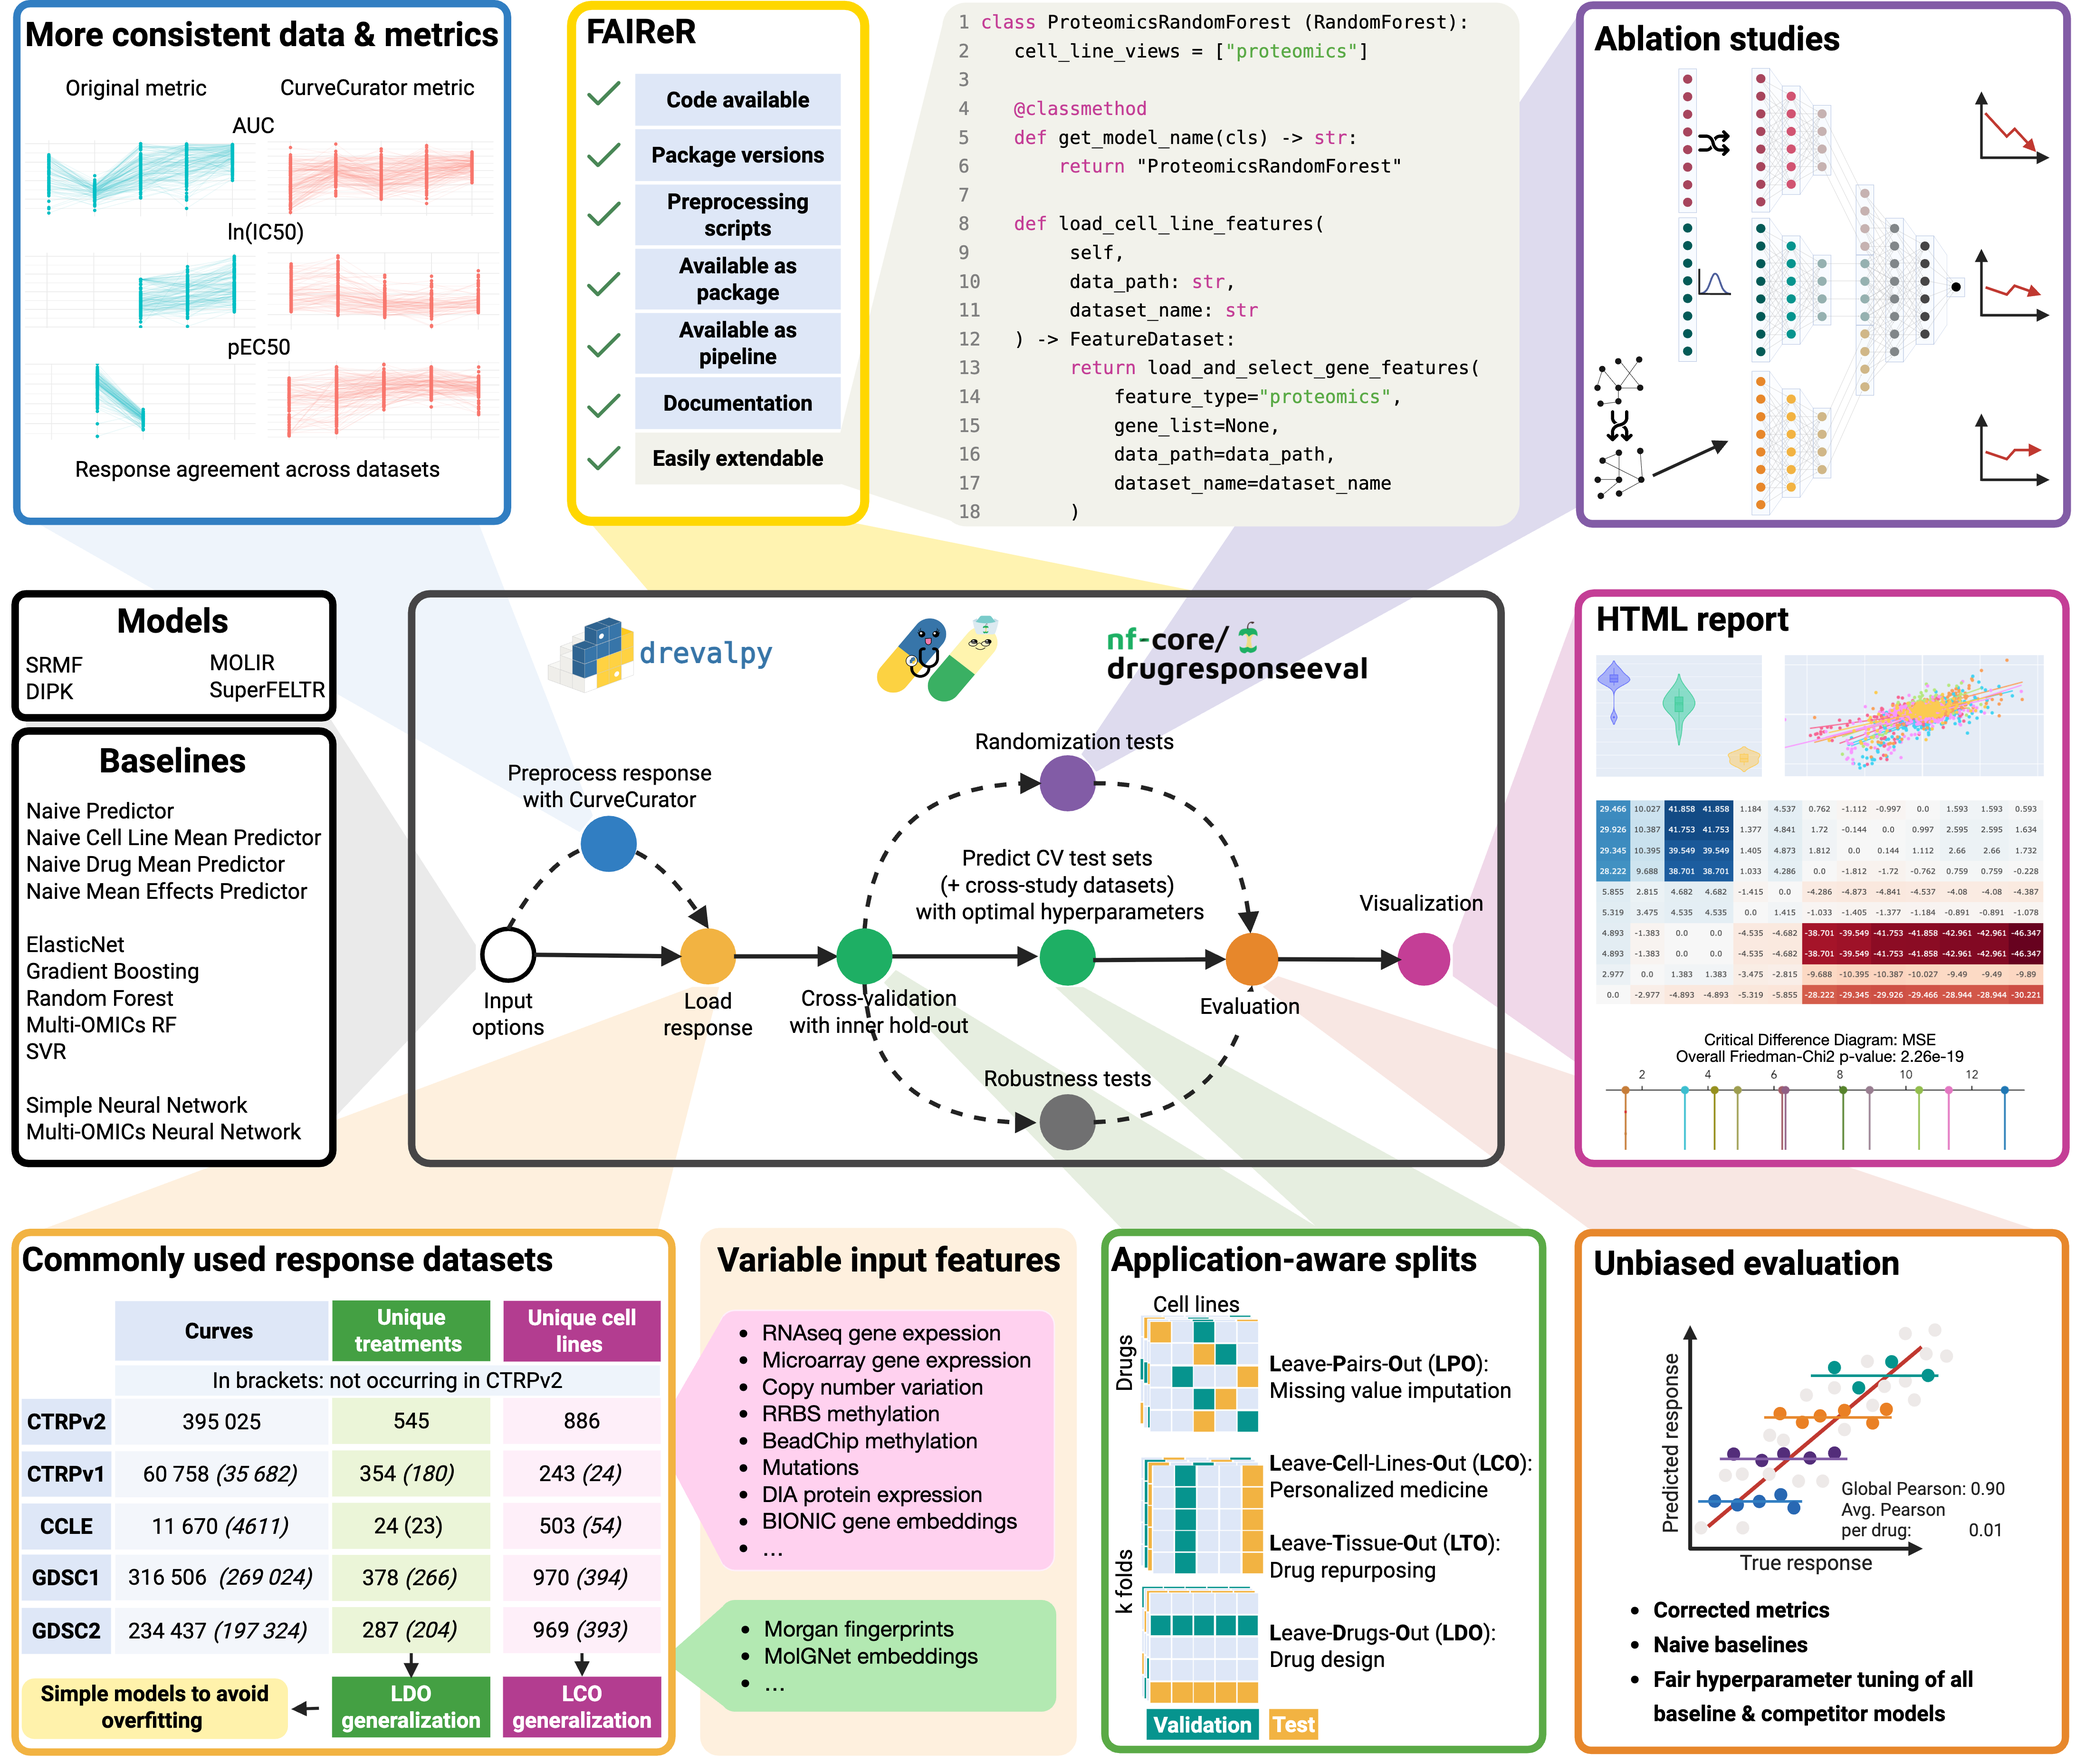
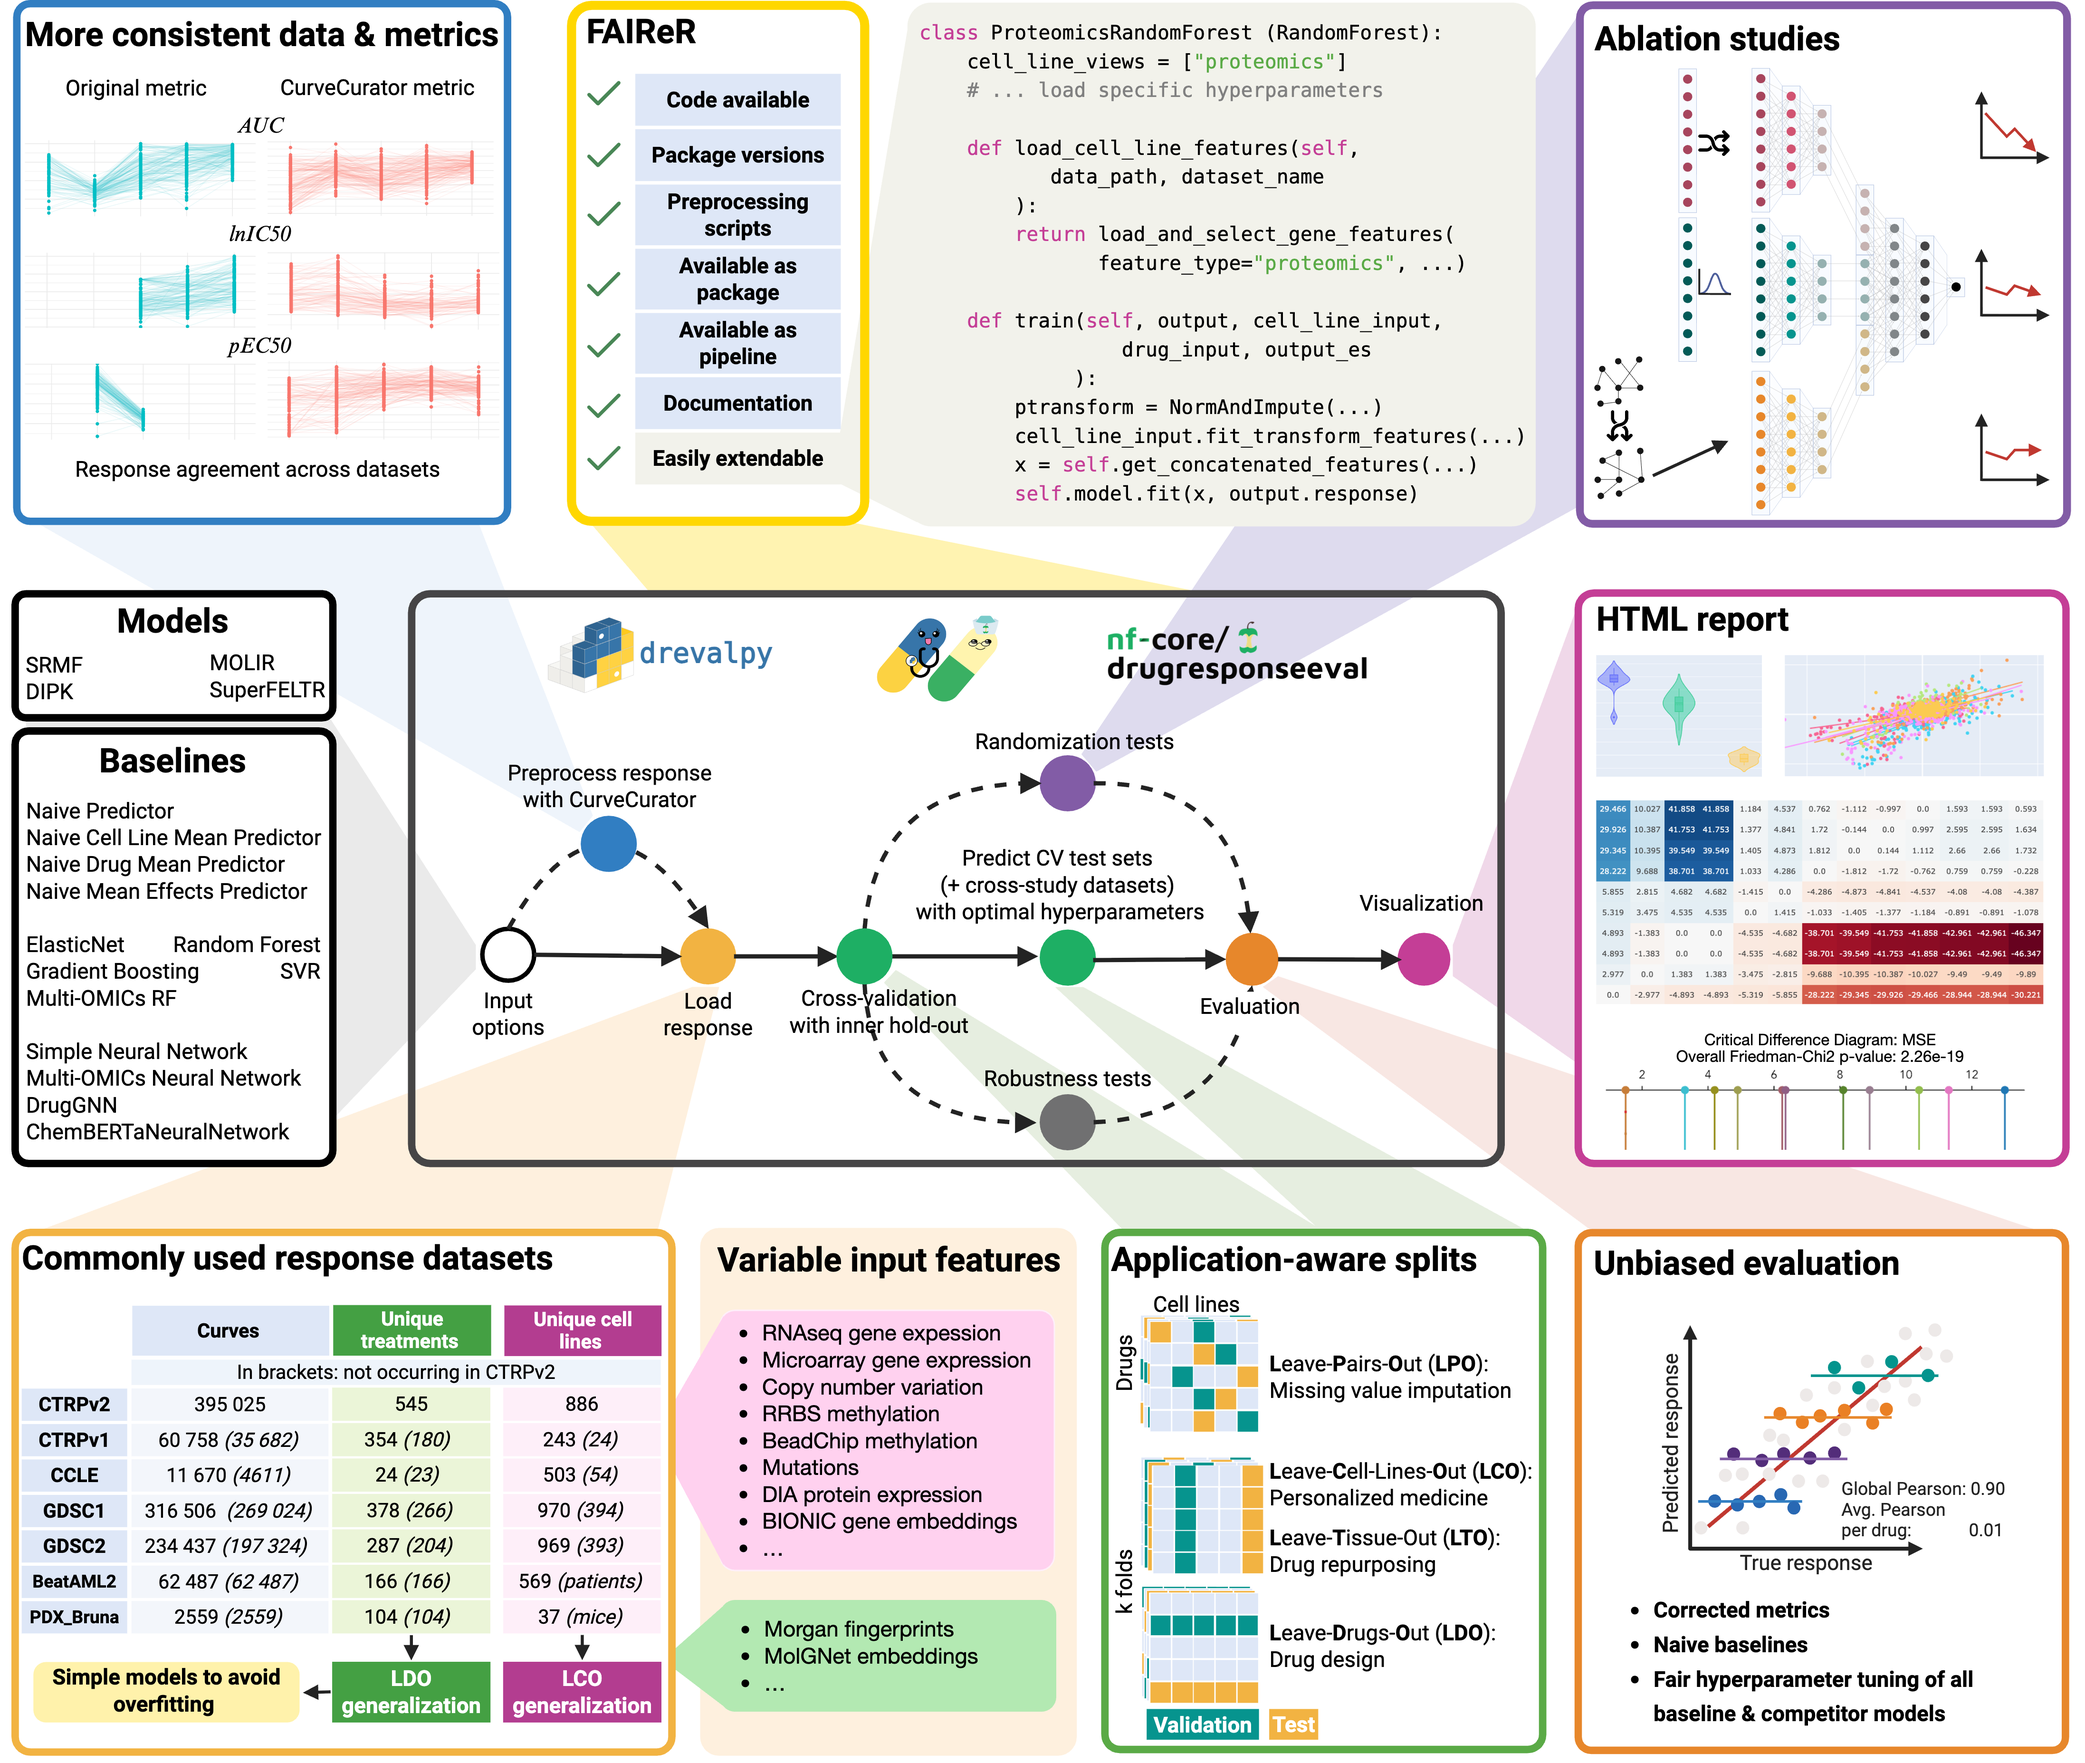
updated summary png to include ChemBERTaNeuralNetwork, DrugGNN, BeatAML2, and PDX_Bruna. Updated documentation to include DrugGNN API. Updated SimpleNeuralNetwork-related files where ChemBERTaNeuralNetwork wasn't yet mentioned. Added documentation information to usage.rst.

diff --git a/drevalpy/models/SimpleNeuralNetwork/__init__.py b/drevalpy/models/SimpleNeuralNetwork/__init__.py
@@ -1,1 +1,1 @@
-"""Module for the baseline neural network models SimpleNeuralNetwork and MultiOmicsNeuralNetwork."""
+"""Module for the baseline models SimpleNeuralNetwork, ChemBERTaNeuralNetwork and MultiOmicsNeuralNetwork."""

diff --git a/drevalpy/models/SimpleNeuralNetwork/simple_neural_network.py b/drevalpy/models/SimpleNeuralNetwork/simple_neural_network.py
@@ -1,4 +1,4 @@
-"""Contains the SimpleNeuralNetwork model."""
+"""Contains the SimpleNeuralNetwork and the ChemBERTaNeuralNetwork model."""
 
 import json
 import os

diff --git a/docs/usage.rst b/docs/usage.rst
@@ -177,6 +177,10 @@ For ``--models``, you can also perform randomization and robustness tests. The `
 +---------------------------------+----------------------------+--------------------------------------+--------------------------------------------------------------------------------------------------------------------------------------------------------------------------------------------------------------------------------------------------------------------------------------------------------------------------------------------------------------------------------------------------------------------------------------------------------------------------------------------------------------------------------------------------------------------------------------------+
 | MultiOmicsNeuralNetwork         | Baseline Method            | Multi-Drug Model                     | Fits a simple feedforward neural network (implemented with `Pytorch Lightning <https://lightning.ai/docs/pytorch/stable/>`_) on gene expression, methylation, mutation, copy number variation data, and drug fingerprints (concatenated input) with 3 layers of varying dimensions and Dropout layers. The dimensionality of the methylation data is reduced with a PCA to the first 100 components before it is fed to the model.                                                                                                                                                         |
 +---------------------------------+----------------------------+--------------------------------------+--------------------------------------------------------------------------------------------------------------------------------------------------------------------------------------------------------------------------------------------------------------------------------------------------------------------------------------------------------------------------------------------------------------------------------------------------------------------------------------------------------------------------------------------------------------------------------------------+
+| ChemBERTaNeuralNetwork          | Baseline Method            | Multi-Drug Model                     | Same architecture as the SimpleNeuralNetwork but uses pre-computed ChemBERTa embeddings as input instead of drug fingerprints.                                                                                                                                                                                                                                                                                                                                                                                                                                                             |
++---------------------------------+----------------------------+--------------------------------------+--------------------------------------------------------------------------------------------------------------------------------------------------------------------------------------------------------------------------------------------------------------------------------------------------------------------------------------------------------------------------------------------------------------------------------------------------------------------------------------------------------------------------------------------------------------------------------------------+
+| DrugGNN                         | Baseline Method            | Multi-Drug Model                     | Represents drugs as graph, encodes their structure with a 3-layer GNN. Uses a 2-layer MLP for encoding gene expression. Concatenates the representations and feeds them through 2 more MLP layers.                                                                                                                                                                                                                                                                                                                                                                                         |
++---------------------------------+----------------------------+--------------------------------------+--------------------------------------------------------------------------------------------------------------------------------------------------------------------------------------------------------------------------------------------------------------------------------------------------------------------------------------------------------------------------------------------------------------------------------------------------------------------------------------------------------------------------------------------------------------------------------------------+
 | SRMF                            | Published Model            | Multi-Drug Model                     | `Similarity Regularization Matrix Factorization <https://doi.org/10.1186/s12885-017-3500-5>`_ model by Wang et al. on gene expression data and drug fingerprints. Re-implemented Matlab code into Python. The basic idea is to represent each drug and each cell line by their respective similarities to all other drugs/cell lines. Those similarities are mapped into a shared latent low-dimensional space from which responses are predicted.                                                                                                                                         |
 +---------------------------------+----------------------------+--------------------------------------+--------------------------------------------------------------------------------------------------------------------------------------------------------------------------------------------------------------------------------------------------------------------------------------------------------------------------------------------------------------------------------------------------------------------------------------------------------------------------------------------------------------------------------------------------------------------------------------------+
 | MOLIR                           | Published Model            | Single-Drug Model                    | Regression extension of `MOLI: multi-omics late integration deep neural network. <https://doi.org/10.1093/bioinformatics/btz318>`_ by Sharifi-Noghabi et al. Takes somatic mutation, copy number variation and gene expression data as input. MOLI reduces the dimensionality of each omics type with a hidden layer, concatenates them into one representation and optimizes this representation via a combined cost function consisting of a triplet loss and a binary cross-entropy loss. We implemented a regression adaption with MSE loss and an adapted triplet loss for regression.|

diff --git a/docs/drevalpy.models.SimpleNeuralNetwork.rst b/docs/drevalpy.models.SimpleNeuralNetwork.rst
@@ -1,7 +1,7 @@
 Simple Neural Network
 ===========================================
 
-Simple Neural Network Model
+Simple Neural Network Model and ChemBERTaNeuralNetwork
 ------------------------------------------------------------------
 
 .. automodule:: drevalpy.models.SimpleNeuralNetwork.simple_neural_network

diff --git a/docs/drevalpy.models.DrugGNN.rst b/docs/drevalpy.models.DrugGNN.rst
@@ -1,0 +1,9 @@
+DrugGNN
+========
+
+DrugGNN Model
+---------------
+.. automodule:: drevalpy.models.DrugGNN.drug_gnn
+   :members:
+   :undoc-members:
+   :show-inheritance:
